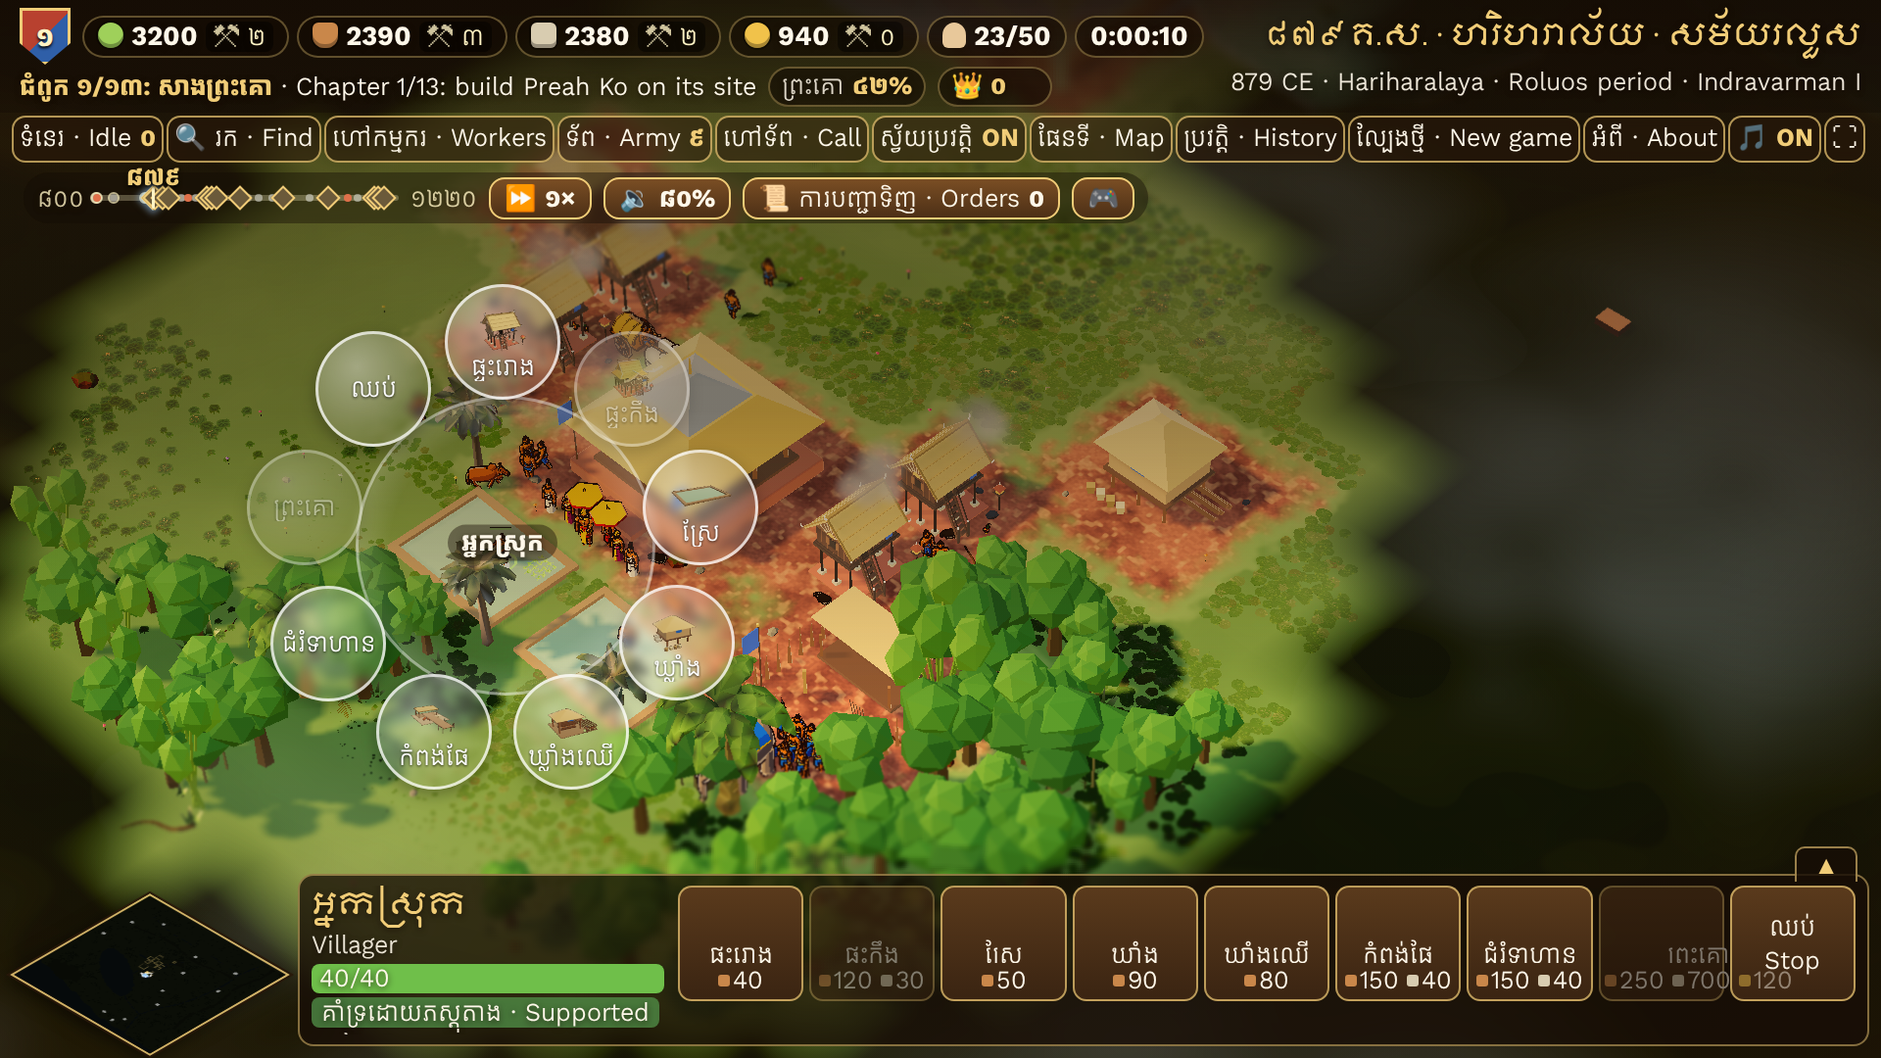
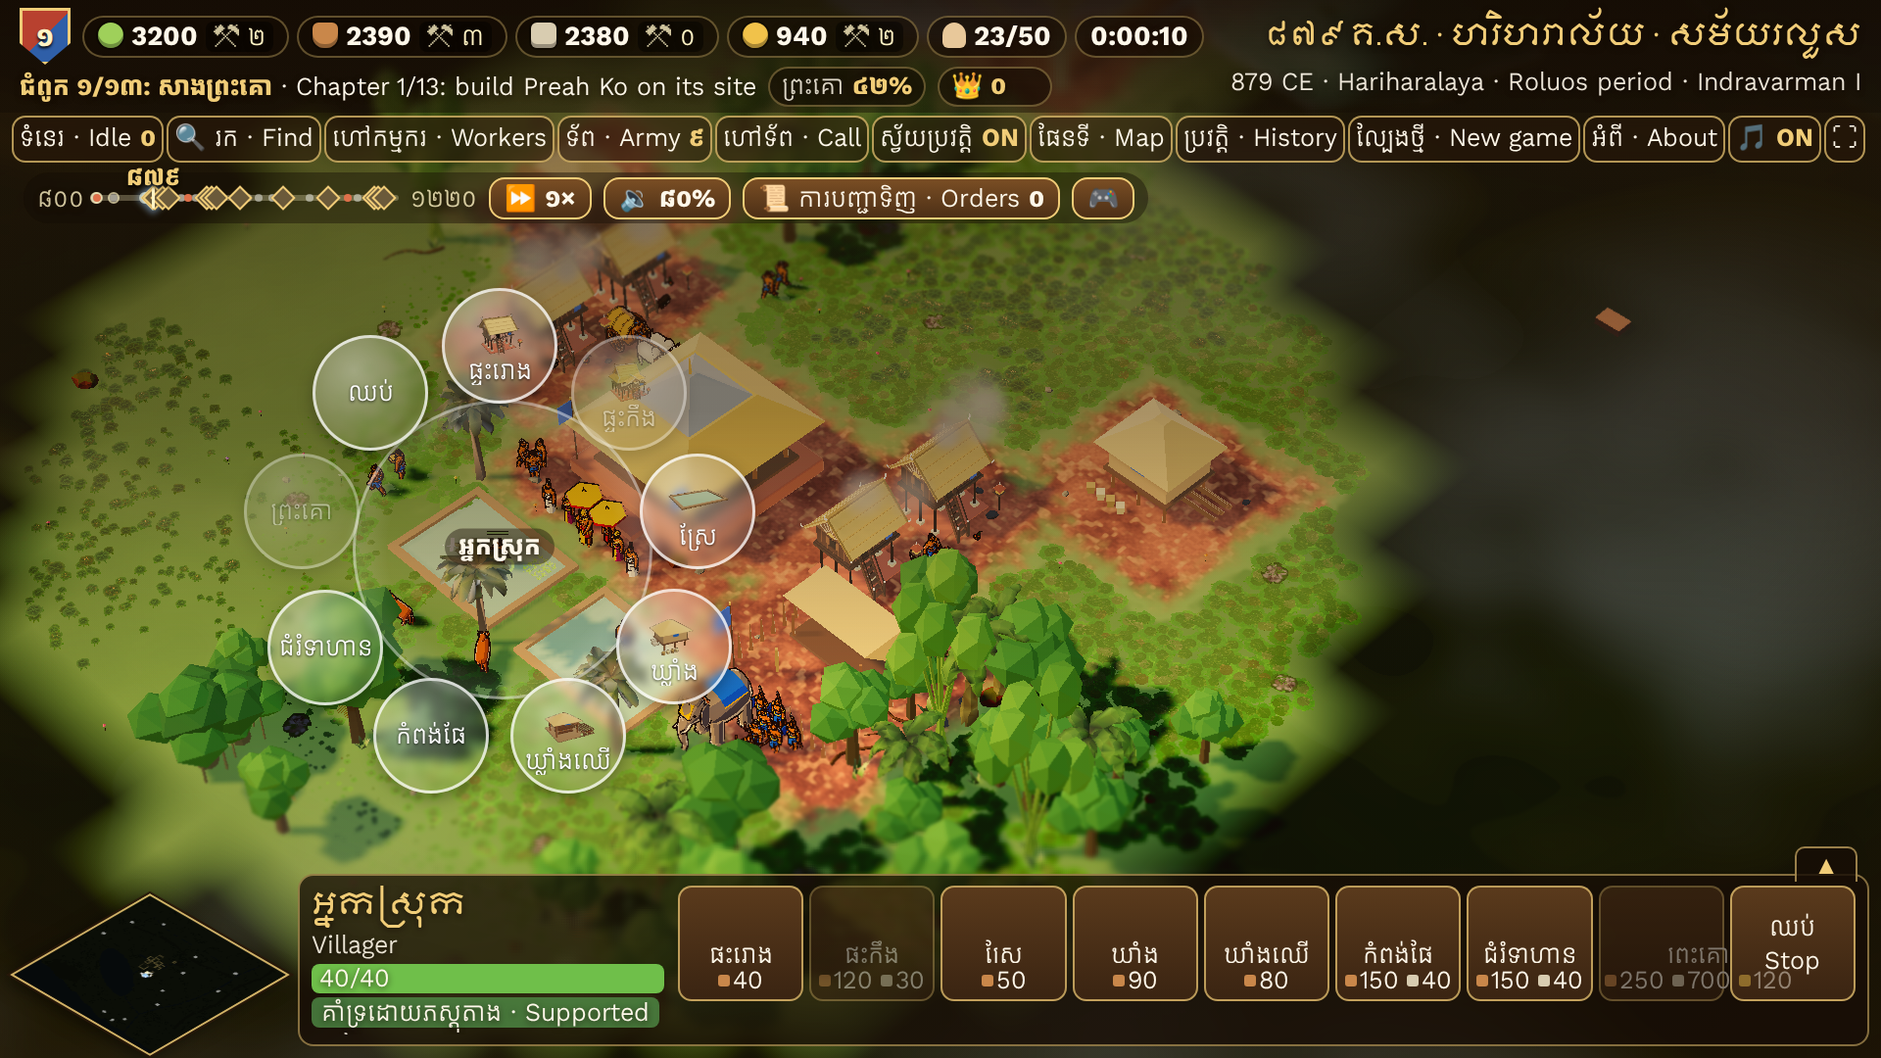
1.8.0: a 10 cm lawn on every green meadow and stone clusters (PK's 3D models)
Claude-Session: https://claude.ai/code/session_017dmXPdLMp9auDpbSrbmvn9

diff --git a/apps/game/src/kingdom/view/scene.ts b/apps/game/src/kingdom/view/scene.ts
@@ -119,6 +119,12 @@ export const TEAM_COLOR: Record<Team, number> = { 0: 0x2f5fa8, 1: 0xb8412f };
 const STILL = { speed: 0, leg: 0, arm: 0, armSync: 0 };
 /** The water plane's height (m). */
 const WATER_Y = -0.12;
+/**
+ * Grass grows where the ground stands this far (m) above the water plane: not on a bank that dips
+ * under it, but on the low meadows, which lie only a few cm higher (PK 1.8.0: the lawn left a
+ * bare band there at 0.08).
+ */
+export const GRASS_DRY = 0.03;
 const TREE_CAP = 1600;
 /** The RTS camera's lens (degrees). */
 const RTS_FOV = 32;
@@ -301,6 +307,9 @@ export class KingdomScene {
   readonly egrass: ElephantGrass | null = null;
   /** PK 1.8.0: the 30 cm meadow grass (diorama.json sward). */
   readonly sward: ElephantGrass | null = null;
+  /** PK 1.8.0: the 10 cm lawn (diorama.json lawn) and the stone clusters (stones). */
+  readonly lawn: ElephantGrass | null = null;
+  readonly stones: ElephantGrass | null = null;
   private readonly egrassKey = new Map<ElephantGrass, string>();
   private readonly egrassClear = new Map<ElephantGrass, Set<number>>();
   readonly see: SeeUniforms | null = null;
@@ -451,10 +460,15 @@ export class KingdomScene {
       this.scene.add(g.group);
     }
     // PK 1.8.0: the short grass (30 cm, PK's Meshy model) over every green meadow.
-    if (this.gfx.diorama && this.gfx.sward && sim.data.diorama.sward.count > 0) {
-      const g = new ElephantGrass(sim.data.diorama.sward, false);
-      (this as { sward: ElephantGrass | null }).sward = g;
-      this.scene.add(g.group);
+    // PK 1.8.0: under it the 10 cm lawn on every green tile, and a few clusters of stones.
+    if (this.gfx.diorama && this.gfx.sward) {
+      const D = sim.data.diorama;
+      for (const [key, cfg] of [['lawn', D.lawn], ['sward', D.sward], ['stones', D.stones]] as const) {
+        if (cfg.count <= 0) continue;
+        const g = new ElephantGrass(cfg, false);
+        (this as unknown as Record<string, ElephantGrass | null>)[key] = g;
+        this.scene.add(g.group);
+      }
     }
     if (this.gfx.seeThrough) (this as { see: SeeUniforms | null }).see = seeUniforms();
     // PK 1.8.0: ground mist and light shafts (the diorama presets).
@@ -2315,6 +2329,8 @@ export class KingdomScene {
     this.syncAir(t);
     this.syncElephantGrass(this.egrass, t, fresh);
     this.syncElephantGrass(this.sward, t, fresh);
+    this.syncElephantGrass(this.lawn, t, fresh);
+    this.syncElephantGrass(this.stones, t, fresh);
     this.syncNight(t);
     this.syncSee(t, selected);
     this.syncEffects(t);
@@ -2453,11 +2469,11 @@ export class KingdomScene {
     const T = s.map.tile;
     const clear = (tx: number, tz: number) =>
       !near.has(tz * N + tx) &&
-      (!this.wear || this.wear.at(tx, tz) < 0.04) &&
+      (!this.wear || this.wear.at(tx, tz) < (g.cfg.wearMax ?? 0.04)) &&
       // Dry land only: where the drawn bank dips under the water plane there is no grass.
-      this.groundY((tx + 0.5) * T - this.half, (tz + 0.5) * T - this.half) > WATER_Y + 0.08;
+      this.groundY((tx + 0.5) * T - this.half, (tz + 0.5) * T - this.half) > WATER_Y + GRASS_DRY;
     const at = this.detailAt ?? this.patchAt(new Set());
-    g.lay(cx, cz, radius, s.map.tile, this.half, at, clear, changed || fresh);
+    g.lay(cx, cz, radius, s.map.tile, this.half, at, clear, changed || fresh, (x, z) => this.groundY(x, z));
   }
 
   /** The night (Anachak Khmer): torches, the stars and the moon, and moonlight. */

diff --git a/apps/game/src/kingdom/view/elephantGrass.ts b/apps/game/src/kingdom/view/elephantGrass.ts
@@ -147,7 +147,7 @@ export function elephantGrassGeometry(blades = 9): THREE.BufferGeometry {
 /** Height of the flat top card, as a share of the grass height. */
 export const TOP_CARD = 0.45;
 
-export function grassCardGeometry(card: number, rows = 4, top = false): THREE.BufferGeometry {
+export function grassCardGeometry(card: number, rows = 4, top = false, topAt = TOP_CARD): THREE.BufferGeometry {
   const cols = top ? 4 : 3;
   const pos: number[] = [];
   const uv: number[] = [];
@@ -183,7 +183,7 @@ export function grassCardGeometry(card: number, rows = 4, top = false): THREE.Bu
       [-0.5, -0.5],
       [0.5, -0.5],
     ] as const) {
-      pos.push(sx * card, TOP_CARD, sz * card);
+      pos.push(sx * card, topAt, sz * card);
       uv.push((3 + sx + 0.5) / 4, 0.5 - sz);
       kind.push(2); // the flat card: shown only to a camera looking down (ELEPHANT_GRASS_VERTEX)
       col.push(1, 1, 1);
@@ -600,7 +600,7 @@ export class ElephantGrass {
     const C = cfg.cards;
     const map = C ? cardTexture(C.file) : null;
     const { material, depth } = elephantGrassMaterials(this.uniforms, map);
-    const geo = C ? grassCardGeometry(C.card, C.rows ?? 4, !!C.top) : elephantGrassGeometry(cfg.blades);
+    const geo = C ? grassCardGeometry(C.card, C.rows ?? 4, !!C.top, C.topAt ?? TOP_CARD) : elephantGrassGeometry(cfg.blades);
     this.cards = !!C;
     this.variant = new THREE.InstancedBufferAttribute(new Float32Array(Math.max(1, cfg.count)), 1);
     geo.setAttribute('aVariant', this.variant);
@@ -630,7 +630,8 @@ export class ElephantGrass {
     U.uEgWind.value = this.cfg.wind.strength * (0.55 + 0.9 * wind);
     U.uEgCenter.value.set(cx, cz);
     U.uEgLod.value.set(radius * this.cfg.lod[0], radius * this.cfg.lod[1]);
-    const n = Math.min(MAX_PUSH, Math.floor(walkers.length / 2));
+    // Nothing bends stones (trample 0): no walkers at all (and no 0-wide smoothstep).
+    const n = this.cfg.trample > 0 ? Math.min(MAX_PUSH, Math.floor(walkers.length / 2)) : 0;
     for (let i = 0; i < n; i++) U.uEgPush.value[i]!.set(walkers[i * 2]!, walkers[i * 2 + 1]!, this.cfg.trample);
     U.uEgPushN.value = n;
   }
@@ -645,6 +646,8 @@ export class ElephantGrass {
     at: (tx: number, tz: number) => Patch,
     clear: (tx: number, tz: number) => boolean,
     force = false,
+    /** The ground's height (m) under a clump: short grass must stand on it, not in it. */
+    ground: (x: number, z: number) => number = () => 0,
   ): boolean {
     const [ax, az, ar] = this.at;
     if (!force && Math.hypot(cx - ax, cz - az) < radius * 0.25 && Math.abs(radius - ar) < ar * 0.3) return false;
@@ -652,7 +655,7 @@ export class ElephantGrass {
     const clumps = layElephantGrass(cx, cz, radius, tile, half, at, clear, this.cfg);
     clumps.forEach((p, i) => {
       this.q.setFromAxisAngle(this.up, p.rot);
-      this.m.compose(this.v.set(p.x, 0, p.z), this.q, this.sc.set(p.w, p.s, p.w));
+      this.m.compose(this.v.set(p.x, ground(p.x, p.z), p.z), this.q, this.sc.set(p.w, p.s, p.w));
       this.mesh.setMatrixAt(i, this.m);
       this.c.copy(p.cogon ? this.cogonTint : this.green).lerp(this.dry, p.dry);
       this.mesh.setColorAt(i, this.c);

diff --git a/apps/game/src/kingdom/view/grass18.test.ts b/apps/game/src/kingdom/view/grass18.test.ts
@@ -15,6 +15,7 @@ import {
 import { makePrekWater } from './water';
 import type { Patch } from './detail';
 import { GroundDetail } from '../hero/ground';
+import { GRASS_DRY } from './scene';
 
 const D = loadKingdom().diorama;
 
@@ -121,6 +122,49 @@ describe("PK 1.8.0: PK's Meshy grass as cards", () => {
     g.mesh.getColorAt(0, c);
     expect(c.g).toBeGreaterThan(c.r);
     expect(c.g).toBeGreaterThan(c.b);
+  });
+
+  it('the lawn (PK: 10 cm, above the foot) fills every green tile; its flat card sits above the bumps', () => {
+    const L = D.lawn;
+    expect(L.height[0]).toBeGreaterThanOrEqual(0.08);
+    expect(L.height[1]).toBeLessThanOrEqual(0.12);
+    expect(L.cover).toBe(1);
+    expect(L.cards?.file).toBe('models/grass/lawn.webp');
+    expect(L.cards!.topAt! * L.height[0]).toBeGreaterThan(0.07); // the ground varies by about ±6 cm
+    expect(L.wearMax).toBeLessThanOrEqual(0.2); // gone before the worn earth shows (ground.soilFrom)
+    expect(L.wearMax).toBeLessThanOrEqual(D.ground.soilFrom);
+    // Patches overlap: 8 a tile, each at least 1 m across seen from above.
+    const across = L.cards!.card * L.height[0] * L.cards!.spread[0];
+    expect(L.perTile * across * across * 0.6).toBeGreaterThan(4);
+    const g = new ElephantGrass(L, false);
+    const pos = g.mesh.geometry.getAttribute('position').array as Float32Array;
+    const kind = g.mesh.geometry.getAttribute('aKind').array as Float32Array;
+    for (let i = 0; i < kind.length; i++) if (kind[i] === 2) expect(pos[i * 3 + 1]).toBeCloseTo(L.cards!.topAt!);
+    // Clumps stand on the ground, not at y = 0.
+    g.lay(0, 0, 10, 2, 0, () => 'grass', () => true, true, () => 0.05);
+    const m = new THREE.Matrix4();
+    g.mesh.getMatrixAt(0, m);
+    expect(m.elements[13]).toBeCloseTo(0.05);
+  });
+
+  it('stone clusters are rare, still in the wind and never pushed aside', () => {
+    const S = D.stones;
+    expect(S.perTile).toBeLessThan(0.1);
+    expect(S.wind.strength).toBe(0);
+    expect(S.trample).toBe(0);
+    const g = new ElephantGrass(S, false);
+    g.frame(1, 1, 0, 0, 30, [0, 0, 1, 1]);
+    expect(g.uniforms.uEgWind.value).toBe(0);
+    expect(g.uniforms.uEgPushN.value).toBe(0);
+    const c = layElephantGrass(0, 0, 60, 2, 0, () => 'grass', () => true, { ...S, count: 100000 });
+    const tiles = Math.PI * 30 * 30;
+    expect(c.length / tiles).toBeLessThan(0.08);
+    expect(c.length).toBeGreaterThan(0);
+  });
+
+  it('the low meadows a few cm above the water grow grass too (GRASS_DRY)', () => {
+    expect(GRASS_DRY).toBeGreaterThan(0);
+    expect(GRASS_DRY).toBeLessThanOrEqual(0.04);
   });
 
   it('in the hero mode the old tufts leave the meadows to the sward (the forest floor keeps them)', () => {

diff --git a/packages/shared/src/kingdom.ts b/packages/shared/src/kingdom.ts
@@ -1025,6 +1025,8 @@ const GrassFieldSchema = z.object({
         rows: z.number().int().min(1).max(8).optional(),
         /** The atlas has a 4th column, the grass from above, shown on a flat card (the RTS camera). */
         top: z.boolean().optional(),
+        /** Height of that flat card, as a share of the grass height (default 0.45; higher for a short lawn on bumpy ground). */
+        topAt: z.number().min(0.05).max(1).optional(),
         source: z.string(),
       })
       .optional(),
@@ -1034,6 +1036,8 @@ const GrassFieldSchema = z.object({
       height: z.tuple([z.number().positive(), z.number().positive()]),
       tint: Hex,
     }),
+    /** Most wear (0..1) a tile may have and still grow it (default 0.04; worn earth shows from ground.soilFrom). */
+    wearMax: z.number().min(0).max(1).optional(),
     /** Colour every clump is multiplied by (x1.5: may brighten), to match the ground's green. */
     tint: Hex.optional(),
     dry: Hex,
@@ -1154,6 +1158,10 @@ export const DioramaSchema = z.object({
   elephantGrass: GrassFieldSchema,
   /** PK 1.8.0: the short grass (30 cm) that covers every green meadow, same wind (PK's Meshy model). */
   sward: GrassFieldSchema,
+  /** PK 1.8.0: the 10 cm lawn under everything on the open grass (PK's "make grass for floor"). */
+  lawn: GrassFieldSchema,
+  /** PK 1.8.0: a few clusters of stones in the grass (PK's "Grass and Stones"; no wind). */
+  stones: GrassFieldSchema,
   /** PK 1.8.0: ground mist and light shafts through the clouds (view/atmosphere.ts). */
   atmosphere: z.object({
     mist: z.object({

diff --git a/docs/TECH_ARCHITECTURE.md b/docs/TECH_ARCHITECTURE.md
@@ -17,7 +17,7 @@ The game runs on **three.js**, not Godot. PK's Godot prompts (spatial shaders, W
 | Prek canal water shader | `makePrekWater()`: height-texture depth fade (steadier than the depth buffer), Fresnel sky in time-of-day steps (`skyStep`), 2-step cel specular, crisp foam, two ripple layers | `kingdom/view/water.ts` |
 | Ground detail | `GroundDetailRts`: forest undergrowth, flowers, pebbles on worn earth, reeds, lotus. Hash-placed on the tile grid near the camera, four draw calls | `kingdom/view/detail.ts` |
 | Elephant grass (PK's Godot spatial shader, 1.8.0) | `ElephantGrass`: one instanced Lambert draw; vertex displacement only (`ELEPHANT_GRASS_VERTEX`): one fetch of a seeded tileable noise texture per vertex at the clump origin, scrolled downwind; quadratic bend with the tip sinking (length kept); per-clump sway; flutter; trample (16 walkers, uniform array); distance shrink. The shadow pass uses a `MeshDepthMaterial` with the same patch. Normals: straight up in view space (no black backs). Planted by `layElephantGrass` (stand noise, banks, `clear` near buildings and worn earth) | `kingdom/view/elephantGrass.ts` |
-| Grass cards and the meadow sward (PK's Meshy models, 1.8.0) | `scripts/models/grassCards.mjs` renders a model (Playwright, flat light, orthographic) into a WebP atlas: 3 side views + 1 from above × 2 rows, leaf colours bled into the clear pixels; `grassCardGeometry` = crossed cards (atlas columns) + a flat top card (`aKind` 2) that folds away when the view is low; `aVariant` picks the row; alpha test. A second `ElephantGrass` field, `sward`, covers every grass tile (cover 1), radius from `grassReach` | `kingdom/view/elephantGrass.ts`, `scene.ts` |
+| Grass cards and the meadow sward (PK's Meshy models, 1.8.0) | `scripts/models/grassCards.mjs` renders a model (Playwright, flat light, orthographic) into a WebP atlas: 3 side views + 1 from above × 2 rows, leaf colours bled into the clear pixels; `grassCardGeometry` = crossed cards (atlas columns) + a flat top card (`aKind` 2) that folds away when the view is low; `aVariant` picks the row; alpha test. Further `ElephantGrass` fields: `sward` (30 cm) and `lawn` (10 cm, top view cut round by the bake's `round` option, `topAt`, `wearMax`) cover every grass tile (cover 1, radius from `grassReach`); `stones` scatter rock clusters (no wind). Clumps stand on `groundY`; grass needs `GRASS_DRY` above the water | `kingdom/view/elephantGrass.ts`, `scene.ts` |
 | Keyboard settings (1.8.0) | `Keymap`: defaults from `config/kingdom/controls.json`, player diff in localStorage, swap on conflict; the map and the hero read held keys by `KeyboardEvent.code` through it; panel HTML `keysPanelHtml`, opened from the year bar | `kingdom/keymap.ts` |
 | Jungle ground (1.8.0) | `splatTerrain()` gains a forest mask (`aForest` per vertex) for dead leaves, wetness (`wetness()`), puddles in the mud's hollows with a lower roughness and the sky colour, drop rings; `mossyRockGeometry`, `frondGeometry`, `rootGeometry` in the ground detail | `kingdom/view/terrain.ts`, `detail.ts` |
 | Mist and light shafts (1.8.0) | `MistLayer` (instanced noise quads) and `LightShafts` (instanced additive beams built along the sun direction in the vertex shader), `cellSpots()` on a world grid, `mistAmount()`, `shaftAmount()` | `kingdom/view/atmosphere.ts` |

diff --git a/docs/DECISIONS.md b/docs/DECISIONS.md
@@ -137,4 +137,5 @@ PK chose rounds 1–2 directly. For rounds 3–8 he said "let's start build", so
 | D135 | PK 1.8.0: the king's sword (and the preah khan) hangs in a sheath on his pelvis joint, turned back along the hip; it moves to the right hand for an attack or a skill and stays drawn `keepDrawn` seconds after. Bows and spears stay in hand | Khmer reliefs show swords carried at the waist; a sword always in hand read as threatening |
 | D136 | PK 1.8.0: PK's Meshy grass models are baked (scripts/models/grassCards.mjs) into card atlases: 3 side views and one from above, 2 variants; drawn as instanced crossed cards with an alpha cut and a flat top card that folds away for a low eye. The tall stands use "Resilient Oasis"; a second field, `sward` (diorama.json, the same code and wind), covers every open grass tile with "mix of cogon" at 0.26–0.34 m, 8 triangles a clump, planted near the view only (about 50 000 triangles; KG-02 502 228). Atlas colours bleed into the clear pixels so far grass does not go dark. In the hero mode the old tufts stay only on the forest floor | The 7.7 M-triangle model itself is far over budget; cards keep its look at about 1/1 000 000 of the cost |
 | D137 | PK 1.8.0 "keyboard config": the keys are data (config/kingdom/controls.json, two groups, up to two keys each, by KeyboardEvent.code); the player's changes are stored as a diff in localStorage (`temples.keys.v1`, try/catch), Esc and Backspace stay reserved for the panel; assigning a used key swaps it, so no key does two things in a group. The panel is a 🎮 button on the year bar (the menu bar is full at 26 px); phones have none | Rules in config (CLAUDE.md 4); by key position so a Khmer layout plays the same |
+| D138 | PK 1.8.0 "fill the solid green ground, 10 cm": two more fields of the same grass code: `lawn` (PK's "make grass for floor", 0.09–0.11 m, 8 patches a tile, each about 1.2 m across from above, the top view cut to a ragged round patch at bake time so no square edges show; its flat card at 0.85 of the height, above the ±6 cm bumps of the ground; grows until wear 0.2 = `ground.soilFrom`) and `stones` (PK's "Grass and Stones", one tile in about 33, no wind, no trample). Every clump now stands on the ground height. Grass grows from 3 cm above the water plane (was 8: a bare band on low meadows). PK's "OCTAGON" model is not used: it is a turf tile on a stone slab, whose eight-sided edge would show as tiles from the high camera. KG-02 527 922 triangles | Fills the ground at 8 triangles a patch within the Low budget |
 

diff --git a/docs/VISUAL_BIBLE.md b/docs/VISUAL_BIBLE.md
@@ -26,6 +26,7 @@ The land should look the way people have used it:
 - **Where.** Broad wild stands on open land and a fringe on the land along rivers and canals, never on the water. Never near buildings (3–5 tiles, with a ragged edge), on worn earth, roads, fields or unexplored land.
 - **Look.** Dense tussocks, wider than tall. Elephant grass deep green, sunlit at the tips; cogon paler and yellower in its own patches; a few dry straw-coloured clumps; about a third flower in white plumes.
 - **PK's models (1.8.0).** The tall stands are PK's Meshy grass "Resilient Oasis"; every open green meadow is covered by his "mix of cogon" as short grass 0.26–0.34 m high (above a person's foot, below the knee), tinted to the ground's green so the gaps read as more grass. Both are cards baked from the models (3 sides and from above). Worn paths, yards, fields, the water's edge and the forest floor stay without it.
+- **The lawn (1.8.0).** Under it all, the open green ground is a 10 cm lawn (PK's "make grass for floor"): it reaches above a person's foot, fills between the tussocks and thins only where paths wear the ground to earth. Here and there a cluster of stones sits in the grass (PK's "Grass and Stones").
 - **Water (1.8.0).** Crystal-clear turquoise: the pale sand bed shows in the shallows with dancing light, deep teal in the middle (`diorama.json` water `clarity`, `caustics`).
 - **Wind.** Gusts roll across the stands as visible waves: the leaves lean and turn pale as a gust passes. Windy weather and storms blow harder.
 - **People.** A walker pushes the grass aside around him. In the 3D mode it grows round the hero, knee to hip high.

diff --git a/CHANGELOG.md b/CHANGELOG.md
@@ -20,6 +20,7 @@ Every update, newest first. Each change has a code (`<version>-<number>`) so it 
 | 1.8.0-12 | **The king wears his sword at the hip**: sheathed at his waist while he walks, works or rests; he draws it to strike or use his skill and puts it back a moment after the fight (D135). |
 | 1.8.0-13 | **PK's 3D grass in the game**: PK's Meshy grass "Resilient Oasis" is now the elephant grass, and his "mix of cogon" grass covers **every green meadow** as short grass 30 cm high (above the foot, below the knee); both roll in the wind and bend round walkers; from the high camera each tussock is seen from above. The old spiky tufts round the hero are gone from the meadows (D136). |
 | 1.8.0-14 | **Keyboard settings** 🎮 (year bar): every key of the kingdom view and of the 3D hero mode can be changed, two keys per action, Khmer names first; a key already used moves to the action it came from; kept in the browser; Reset brings the defaults back. The hero's buttons and hints name the keys you chose (D137). |
+| 1.8.0-15 | **A 10 cm lawn on every green meadow** (PK's Meshy "make grass for floor"): short dense grass, above the foot, fills the open green ground under the taller grass, from the high camera and round the hero; it thins only where the ground is worn to earth. Now and then a **cluster of stones in the grass** (PK's "Grass and Stones"). The low meadows near the water, bare before, have grass too. The 30 cm tussocks are a little sparser so the lawn shows between them (D138). |
 
 ## 1.7.0 — 2026-10-06
 

diff --git a/docs/CHECKS.md b/docs/CHECKS.md
@@ -529,3 +529,13 @@ Note: the test machine has no GPU and renders headless at about 2 FPS, so timing
 | Keyboard: defaults from config, swap on conflict, Esc/Backspace reserved, kept in the browser (and a blocked store is harmless), Reset; panel Khmer first, text ≥ 26 px; a new key works in the game and the old one stops | ✅ | `kingdom/keymap.test.ts`, e2e KG-09, `docs/screens/k18-keyboard.jpg` |
 
 **Not verified here:** the frame rate with the meadow grass on the stream laptop (software GL here), the keyboard panel with a real Khmer keyboard layout.
+
+### 1.8.0, fourth part: the 10 cm lawn and stones (2026-10-09)
+
+**Automated:** `npm run verify` ✅ (lint, types, 656 unit tests in 73 files, build) · e2e KG-02 ✅ (budget 527 922 triangles, 90 draw calls), KG-09 ✅, KG-05 ✅, KG-06 ✅.
+
+| Check | Result | Evidence |
+| --- | --- | --- |
+| Lawn 0.09–0.11 m on every open grass tile, patches overlap, flat card above the ground bumps, clumps stand on the ground, thins only on worn earth | ✅ | `view/grass18.test.ts`, `docs/screens/k18-lawn-rts.jpg`, `k18-lawn-hero.jpg` |
+| Stone clusters rare, no wind, not pushed | ✅ | `view/grass18.test.ts` |
+| Low meadows (a few cm above the water) grow grass; none on the water | ✅ | `view/grass18.test.ts` (GRASS_DRY), water screenshot (no grass on the water) |
